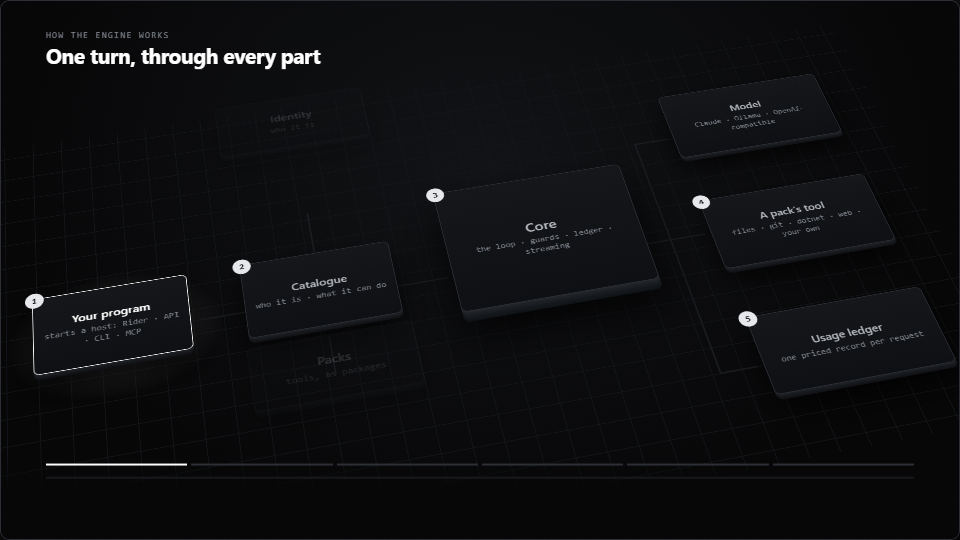
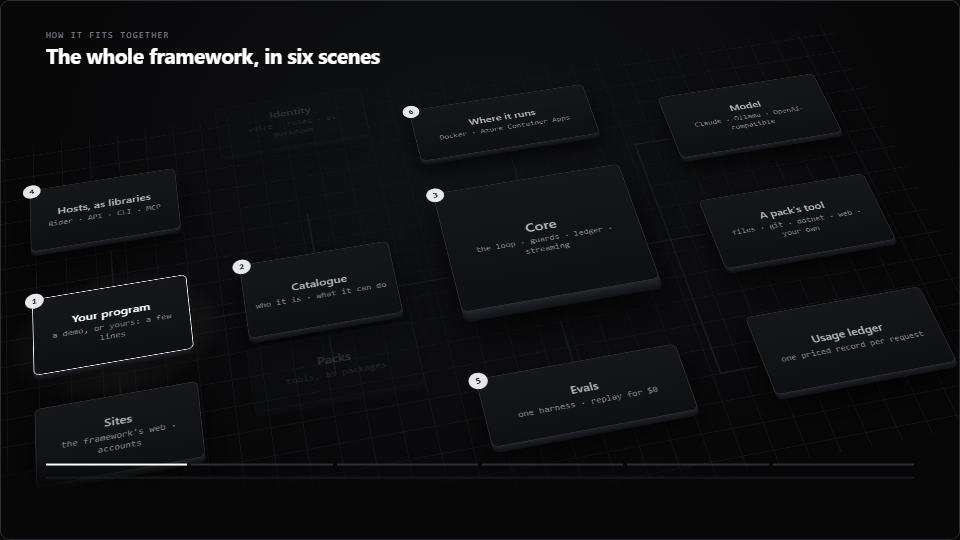
feat(f109.4): step 8 - the short film becomes the map
Six scenes over the whole framework on twelve parts: your program, the
catalogue with its identity and packs, core with the model and a pack's
tool behind a guard, the hosts as libraries beside the sites on the
framework's web, the evals and the ledger, and where it runs. The
detailed film keeps the turn. The light visits the parts in scene order,
the camera flies to each, the cards name real types (FilmNamesTests holds
them to the code), the golden follows, the film is re-exported and its
hash renewed, the landing's heading and the README's caption say what the
film now shows.

diff --git a/demos/louis-agent/web/louis-agent.code-review/Styles/site/movie/_short.scss b/demos/louis-agent/web/louis-agent.code-review/Styles/site/movie/_short.scss
@@ -1,19 +1,25 @@
-/* The short film (36 s, six scenes of 6 s): where each part stands, the camera's moves, when each part lights up, the
-   light's path, and when each card and caption shows. A scene's window is a share of the loop: 1 is 0–16%, 2 is
-   16–33%, 3 is 33–50%, 4 is 50–67%, 5 is 67–84%, 6 is 84–100%. The parts are numbered in the order the turn reaches
-   them. */
+/* The short film (36 s, six scenes of 6 s), the map of the whole framework (F109.4): where each part stands, the
+   camera's moves, when each part lights up, the light's path, and when each card and caption shows. A scene's window
+   is a share of the loop: 1 is 0–16%, 2 is 16–33%, 3 is 33–50%, 4 is 50–67%, 5 is 67–84%, 6 is 84–100%. The parts
+   are numbered in the order the film visits them. */
 
 .film-short { --loop: 36s; }
 .film-short .floor { animation-name: camera-s; }
 .film-short .dot, .film-short .shadow { animation-name: travel-s; }
 .film-short .steps i { width: calc((1160px - 30px) / 6); }
 
-/* Where the parts stand (the floor is 1280×720; its centre, 640×380, is what the camera turns around). */
+/* Where the parts stand (the floor is 1280×720; its centre, 640×380, is what the camera turns around): your program
+   in the left column between the hosts and the sites, the catalogue's column, core in the middle with where it runs
+   above and the evals below, the model, the tool and the ledger on the right. */
+.film-short .p-hosts { left: 60px; top: 110px; width: 200px; height: 110px; animation-name: lit-hosts-s; }
 .film-short .p-host { left: 60px; top: 300px; width: 200px; height: 120px; animation-name: lit-host-s; }
+.film-short .p-web { left: 60px; top: 470px; width: 200px; height: 110px; animation-name: lit-web-s; }
 .film-short .p-comp { left: 330px; top: 300px; width: 200px; height: 120px; animation-name: lit-comp-s; }
 .film-short .p-ident { left: 330px; top: 120px; width: 200px; height: 90px; animation-name: lit-ident-s; }
 .film-short .p-packs { left: 330px; top: 480px; width: 200px; height: 90px; animation-name: lit-packs-s; }
+.film-short .p-cloud { left: 600px; top: 70px; width: 260px; height: 100px; animation-name: lit-cloud-s; }
 .film-short .p-core { left: 600px; top: 260px; width: 260px; height: 200px; font-size: 20px; animation-name: lit-core-s; }
+.film-short .p-evals { left: 600px; top: 540px; width: 260px; height: 100px; animation-name: lit-evals-s; }
 .film-short .p-model { left: 960px; top: 120px; width: 240px; height: 120px; animation-name: lit-model-s; }
 .film-short .p-tools { left: 960px; top: 320px; width: 240px; height: 120px; animation-name: lit-tools-s; }
 .film-short .p-ledger { left: 960px; top: 520px; width: 240px; height: 120px; animation-name: lit-ledger-s; }
@@ -26,13 +32,19 @@
 .film-short .w6 { left: 910px; top: 180px; width: 2px; height: 400px; }
 .film-short .w7 { left: 910px; top: 180px; width: 50px; height: 2px; }
 .film-short .w8 { left: 910px; top: 580px; width: 50px; height: 2px; }
+.film-short .w9 { left: 160px; top: 220px; width: 2px; height: 80px; }
+.film-short .w10 { left: 160px; top: 420px; width: 2px; height: 50px; }
+.film-short .w11 { left: 730px; top: 170px; width: 2px; height: 90px; }
+.film-short .w12 { left: 730px; top: 460px; width: 2px; height: 80px; }
 
 .film-short .pool-host { left: 20px; top: 260px; width: 280px; height: 200px; animation-name: pool-host-s; }
 .film-short .pool-comp { left: 290px; top: 260px; width: 280px; height: 200px; animation-name: pool-comp-s; }
 .film-short .pool-core { left: 540px; top: 200px; width: 380px; height: 320px; animation-name: pool-core-s; }
-.film-short .pool-model { left: 920px; top: 80px; width: 320px; height: 200px; animation-name: pool-model-s; }
-.film-short .pool-tools { left: 920px; top: 280px; width: 320px; height: 200px; animation-name: pool-tools-s; }
-.film-short .pool-ledger { left: 920px; top: 480px; width: 320px; height: 200px; animation-name: pool-ledger-s; }
+.film-short .pool-hosts { left: 20px; top: 70px; width: 280px; height: 190px; animation-name: pool-hosts-s; }
+.film-short .pool-web { left: 20px; top: 430px; width: 280px; height: 190px; animation-name: pool-hosts-s; }
+.film-short .pool-evals { left: 540px; top: 500px; width: 380px; height: 180px; animation-name: pool-evals-s; }
+.film-short .pool-ledger { left: 920px; top: 480px; width: 320px; height: 200px; animation-name: pool-evals-s; }
+.film-short .pool-cloud { left: 540px; top: 30px; width: 380px; height: 180px; animation-name: pool-cloud-s; }
 
 .film-short .c1 { animation-name: show-s1; }
 .film-short .c2 { animation-name: show-s2; }
@@ -48,44 +60,50 @@
 .film-short .k6 { animation-name: step-s6; }
 
 /* The camera: wide at the start and the end, otherwise flown in on the part at work (translate centres it, scale is
-   the zoom) and panned from one to the next. */
+   the zoom) and panned from one to the next: the program, the catalogue, core with the model and the tool, the left
+   column of hosts and sites, the evals and the ledger at the bottom, where it runs at the top. */
 @keyframes camera-s {
     0% { transform: rotateX(38deg) rotateZ(-12deg) scale(1) translate(0, 0); }
     4%, 13% { transform: rotateX(22deg) rotateZ(-5deg) scale(1.7) translate(480px, 20px); }
     18%, 30% { transform: rotateX(22deg) rotateZ(-5deg) scale(1.3) translate(210px, 35px); }
     35%, 47% { transform: rotateX(22deg) rotateZ(-5deg) scale(0.92) translate(-200px, 185px); }
-    52%, 64% { transform: rotateX(22deg) rotateZ(-5deg) scale(1.3) translate(-265px, 10px); }
-    69%, 81% { transform: rotateX(22deg) rotateZ(-5deg) scale(1.3) translate(-265px, -90px); }
-    86%, 97% { transform: rotateX(22deg) rotateZ(-5deg) scale(1.7) translate(480px, 20px); }
+    52%, 64% { transform: rotateX(22deg) rotateZ(-5deg) scale(1.05) translate(430px, 20px); }
+    69%, 81% { transform: rotateX(22deg) rotateZ(-5deg) scale(1.05) translate(-140px, -90px); }
+    86%, 97% { transform: rotateX(22deg) rotateZ(-5deg) scale(1.3) translate(-10px, 140px); }
     100% { transform: rotateX(38deg) rotateZ(-12deg) scale(1) translate(0, 0); }
 }
 
-/* The light's path, part to part. */
+/* The light's path, part to part, in the order of the scenes. */
 @keyframes travel-s {
     0% { left: 250px; top: 352px; opacity: 0; } 2% { opacity: 1; } 12% { left: 330px; top: 352px; }
     14% { left: 330px; top: 352px; } 26% { left: 530px; top: 352px; } 28% { left: 600px; top: 352px; }
-    30% { left: 860px; top: 352px; } 34% { left: 960px; top: 180px; } 40% { left: 960px; top: 180px; } 44% { left: 860px; top: 352px; }
-    48% { left: 860px; top: 352px; } 52% { left: 960px; top: 380px; } 58% { left: 960px; top: 380px; } 62% { left: 860px; top: 352px; }
-    66% { left: 860px; top: 352px; } 70% { left: 960px; top: 580px; } 74% { left: 960px; top: 580px; } 78% { left: 860px; top: 352px; }
-    80% { left: 600px; top: 352px; } 90% { left: 250px; top: 352px; opacity: 1; } 92% { opacity: 0; } 100% { left: 250px; top: 352px; opacity: 0; }
+    33% { left: 860px; top: 352px; } 36% { left: 960px; top: 180px; } 40% { left: 960px; top: 180px; } 43% { left: 860px; top: 352px; }
+    46% { left: 960px; top: 380px; } 49% { left: 960px; top: 380px; } 51% { left: 600px; top: 352px; }
+    55% { left: 152px; top: 230px; } 58% { left: 152px; top: 230px; } 62% { left: 152px; top: 490px; } 65% { left: 152px; top: 490px; }
+    69% { left: 722px; top: 530px; } 73% { left: 722px; top: 530px; } 77% { left: 960px; top: 580px; } 81% { left: 960px; top: 580px; }
+    86% { left: 722px; top: 160px; } 92% { left: 722px; top: 160px; opacity: 1; } 94% { opacity: 0; } 100% { left: 250px; top: 352px; opacity: 0; }
 }
 
 /* When each part is lit (white edge and text), and the identity and packs dropping onto the floor in scene 2. */
-@keyframes lit-host-s { 0%, 12% { border-color: #fff; color: #fff; } 16%, 78% { border-color: #2c2f35; color: #b4b8be; } 84%, 100% { border-color: #fff; color: #fff; } }
+@keyframes lit-host-s { 0%, 12% { border-color: #fff; color: #fff; } 16%, 100% { border-color: #2c2f35; color: #b4b8be; } }
 @keyframes lit-comp-s { 0%, 12% { border-color: #2c2f35; color: #b4b8be; } 16%, 26% { border-color: #fff; color: #fff; } 30%, 100% { border-color: #2c2f35; color: #b4b8be; } }
 @keyframes lit-ident-s { 0%, 18% { opacity: .2; transform: translateZ(120px) translateY(-20px); } 22%, 100% { opacity: 1; transform: translateZ(26px); } }
 @keyframes lit-packs-s { 0%, 20% { opacity: .2; transform: translateZ(120px) translateY(20px); } 24%, 100% { opacity: 1; transform: translateZ(26px); } }
-@keyframes lit-core-s { 0%, 26% { border-color: #2c2f35; color: #b4b8be; } 30%, 80% { border-color: #fff; color: #fff; background: linear-gradient(180deg, #1f2226, #15171a); } 86%, 100% { border-color: #2c2f35; color: #b4b8be; } }
-@keyframes lit-model-s { 0%, 30% { border-color: #2c2f35; color: #b4b8be; } 34%, 42% { border-color: #fff; color: #fff; } 46%, 100% { border-color: #2c2f35; color: #b4b8be; } }
-@keyframes lit-tools-s { 0%, 48% { border-color: #2c2f35; color: #b4b8be; } 52%, 60% { border-color: #fff; color: #fff; } 64%, 100% { border-color: #2c2f35; color: #b4b8be; } }
-@keyframes lit-ledger-s { 0%, 66% { border-color: #2c2f35; color: #b4b8be; } 70%, 96% { border-color: #fff; color: #fff; } 100% { border-color: #2c2f35; color: #b4b8be; } }
+@keyframes lit-core-s { 0%, 26% { border-color: #2c2f35; color: #b4b8be; } 30%, 49% { border-color: #fff; color: #fff; background: linear-gradient(180deg, #1f2226, #15171a); } 53%, 100% { border-color: #2c2f35; color: #b4b8be; } }
+@keyframes lit-model-s { 0%, 32% { border-color: #2c2f35; color: #b4b8be; } 35%, 41% { border-color: #fff; color: #fff; } 44%, 100% { border-color: #2c2f35; color: #b4b8be; } }
+@keyframes lit-tools-s { 0%, 42% { border-color: #2c2f35; color: #b4b8be; } 45%, 49% { border-color: #fff; color: #fff; } 52%, 100% { border-color: #2c2f35; color: #b4b8be; } }
+@keyframes lit-hosts-s { 0%, 51% { border-color: #2c2f35; color: #b4b8be; } 54%, 64% { border-color: #fff; color: #fff; } 67%, 100% { border-color: #2c2f35; color: #b4b8be; } }
+@keyframes lit-web-s { 0%, 58% { border-color: #2c2f35; color: #b4b8be; } 61%, 64% { border-color: #fff; color: #fff; } 67%, 100% { border-color: #2c2f35; color: #b4b8be; } }
+@keyframes lit-evals-s { 0%, 67% { border-color: #2c2f35; color: #b4b8be; } 70%, 81% { border-color: #fff; color: #fff; } 84%, 100% { border-color: #2c2f35; color: #b4b8be; } }
+@keyframes lit-ledger-s { 0%, 75% { border-color: #2c2f35; color: #b4b8be; } 78%, 81% { border-color: #fff; color: #fff; } 84%, 100% { border-color: #2c2f35; color: #b4b8be; } }
+@keyframes lit-cloud-s { 0%, 84% { border-color: #2c2f35; color: #b4b8be; } 87%, 96% { border-color: #fff; color: #fff; } 100% { border-color: #2c2f35; color: #b4b8be; } }
 
-@keyframes pool-host-s { 0%, 12% { opacity: 1; } 16%, 78% { opacity: 0; } 84%, 100% { opacity: 1; } }
+@keyframes pool-host-s { 0%, 12% { opacity: 1; } 16%, 100% { opacity: 0; } }
 @keyframes pool-comp-s { 0%, 12% { opacity: 0; } 16%, 26% { opacity: 1; } 30%, 100% { opacity: 0; } }
-@keyframes pool-core-s { 0%, 26% { opacity: 0; } 30%, 80% { opacity: 1; } 86%, 100% { opacity: 0; } }
-@keyframes pool-model-s { 0%, 30% { opacity: 0; } 34%, 42% { opacity: 1; } 46%, 100% { opacity: 0; } }
-@keyframes pool-tools-s { 0%, 48% { opacity: 0; } 52%, 60% { opacity: 1; } 64%, 100% { opacity: 0; } }
-@keyframes pool-ledger-s { 0%, 66% { opacity: 0; } 70%, 96% { opacity: 1; } 100% { opacity: 0; } }
+@keyframes pool-core-s { 0%, 26% { opacity: 0; } 30%, 49% { opacity: 1; } 53%, 100% { opacity: 0; } }
+@keyframes pool-hosts-s { 0%, 51% { opacity: 0; } 54%, 64% { opacity: 1; } 67%, 100% { opacity: 0; } }
+@keyframes pool-evals-s { 0%, 67% { opacity: 0; } 70%, 81% { opacity: 1; } 84%, 100% { opacity: 0; } }
+@keyframes pool-cloud-s { 0%, 84% { opacity: 0; } 87%, 96% { opacity: 1; } 100% { opacity: 0; } }
 
 /* The card and the caption of each scene, and the step marks. */
 @keyframes show-s1 { 0% { opacity: 0; } 3%, 13% { opacity: 1; } 16%, 100% { opacity: 0; } }

diff --git a/demos/louis-agent/tests/louis-agent.code-review.tests/Movies/ShortMovie.html b/demos/louis-agent/tests/louis-agent.code-review.tests/Movies/ShortMovie.html
@@ -1,1 +1,1 @@
-<div class="movie" role="img" aria-label="A 36-second loop: your program starts a host and a prompt leaves it, the catalogue says which identity and packs it runs on, core asks the model, a pack's tool runs behind a guard, the ledger prices every request, and the answer returns with its bill; a detail card explains each scene"><div class="stage film-short"><div class="camera" aria-hidden="true"><div class="floor"><div class="wire w1"></div><div class="wire w2"></div><div class="wire w3"></div><div class="wire w4"></div><div class="wire w5"></div><div class="wire w6"></div><div class="wire w7"></div><div class="wire w8"></div><div class="pool pool-host"></div><div class="pool pool-comp"></div><div class="pool pool-core"></div><div class="pool pool-model"></div><div class="pool pool-tools"></div><div class="pool pool-ledger"></div><div class="part p-host"><i>1</i>Your program<small>starts a host: Rider · API · CLI · MCP</small></div><div class="part p-comp"><i>2</i>Catalogue<small>who it is · what it can do</small></div><div class="part p-ident">Identity<small>who it is</small></div><div class="part p-packs">Packs<small>tools, as packages</small></div><div class="part p-core core"><i>3</i>Core<small>the loop · guards · ledger · streaming</small></div><div class="part p-model">Model<small>Claude · Ollama · OpenAI-compatible</small></div><div class="part p-tools"><i>4</i>A pack's tool<small>files · git · dotnet · web · your own</small></div><div class="part p-ledger"><i>5</i>Usage ledger<small>one priced record per request</small></div><div class="shadow"></div><div class="dot"></div></div></div><div class="title"><span class="kicker">How the engine works</span><span class="title-text">One turn, through every part</span></div><div class="cards"><div class="card c1"><b>1 · Your program</b><code>CliHost.RunAsync(args, catalog)</code><ul><li>A few lines of your own start a host; every host speaks to the same engine</li><li>The prompt is appended to a history that only grows</li></ul><em>› fix the failing test</em></div><div class="card c2"><b>2 · The catalogue</b><code>new AgentCatalog(identities, packs)</code><ul><li>An identity is who the agent is: voice, modes, roles</li><li>A pack is what it can do, and ships as a package</li><li>The engine itself names no product</li></ul><em>identity: coding agent · packs: files, git, dotnet</em></div><div class="card c3"><b>3 · Core asks the model</b><code>Microsoft.Extensions.AI · IChatClient</code><ul><li>The history and the session's tools go to the model</li><li>The provider is configuration: Claude, Ollama or OpenAI-compatible</li><li>The prompt prefix stays the same bytes, so it caches</li></ul><em>thinking · reads the test first… → ReadWorkspaceFile</em></div><div class="card c4"><b>4 · A pack's tool, behind a guard</b><code>the tool loop · ToolCallGuards</code><ul><li>The pack holds the tool; the engine holds the guards</li><li>Arguments are data, never a shell command</li><li>A result over 50,000 characters is summarised first</li></ul><em>DotNetTest → 61,340 chars → 1,100</em></div><div class="card c5"><b>5 · The ledger</b><code>one record per request · a dated price table</code><ul><li>Every model request is recorded with its tokens and cost</li><li>An unknown price stays unknown, never 0</li></ul><em>request 3 · 9.4k tokens · $0.002</em></div><div class="card c6"><b>6 · Back to the host, with the bill</b><code>every host shows the same totals</code><ul><li>Thinking, text and every tool call streamed as they happened</li><li>The turn ends with what it cost</li></ul><em>turn: 4 requests · 31k tokens (27k cached) · $0.008</em></div></div><div class="strip" aria-hidden="true"></div><div class="steps" aria-hidden="true"><i class="k1"></i><i class="k2"></i><i class="k3"></i><i class="k4"></i><i class="k5"></i><i class="k6"></i></div><div class="bar" aria-hidden="true"><i></i></div><div class="cap c1"><b>1 / 6</b><span>Your program starts a host, and a prompt comes in.</span></div><div class="cap c2"><b>2 / 6</b><span>Its catalogue says who the agent is and what it can do.</span></div><div class="cap c3"><b>3 / 6</b><span>Core sends the history and the tools to the model. The provider is configuration.</span></div><div class="cap c4"><b>4 / 6</b><span>The model calls a pack's tool. A guard keeps the result in bounds.</span></div><div class="cap c5"><b>5 / 6</b><span>Every request lands in the ledger, priced.</span></div><div class="cap c6"><b>6 / 6</b><span>The answer streams back with its bill. Then the next turn.</span></div></div></div>
+<div class="movie" role="img" aria-label="A 36-second loop over the whole framework: your program starts a host, the catalogue says which identity and packs it runs on, core asks the model and a pack's tool runs behind a guard, the hosts are libraries and a site is an app on the framework's web, every check is an eval and every request lands in the ledger priced, and it runs in Docker on a PC and in Container Apps in Azure; a detail card explains each scene"><div class="stage film-short"><div class="camera" aria-hidden="true"><div class="floor"><div class="wire w1"></div><div class="wire w2"></div><div class="wire w3"></div><div class="wire w4"></div><div class="wire w5"></div><div class="wire w6"></div><div class="wire w7"></div><div class="wire w8"></div><div class="wire w9"></div><div class="wire w10"></div><div class="wire w11"></div><div class="wire w12"></div><div class="pool pool-host"></div><div class="pool pool-comp"></div><div class="pool pool-core"></div><div class="pool pool-hosts"></div><div class="pool pool-web"></div><div class="pool pool-evals"></div><div class="pool pool-ledger"></div><div class="pool pool-cloud"></div><div class="part p-hosts"><i>4</i>Hosts, as libraries<small>Rider · API · CLI · MCP</small></div><div class="part p-host"><i>1</i>Your program<small>a demo, or yours: a few lines</small></div><div class="part p-web">Sites<small>the framework's web · accounts</small></div><div class="part p-comp"><i>2</i>Catalogue<small>who it is · what it can do</small></div><div class="part p-ident">Identity<small>voice · roles · as markdown</small></div><div class="part p-packs">Packs<small>tools, as packages</small></div><div class="part p-cloud"><i>6</i>Where it runs<small>Docker · Azure Container Apps</small></div><div class="part p-core core"><i>3</i>Core<small>the loop · guards · ledger · streaming</small></div><div class="part p-evals"><i>5</i>Evals<small>one harness · replay for $0</small></div><div class="part p-model">Model<small>Claude · Ollama · OpenAI-compatible</small></div><div class="part p-tools">A pack's tool<small>files · git · dotnet · web · your own</small></div><div class="part p-ledger">Usage ledger<small>one priced record per request</small></div><div class="shadow"></div><div class="dot"></div></div></div><div class="title"><span class="kicker">How it fits together</span><span class="title-text">The whole framework, in six scenes</span></div><div class="cards"><div class="card c1"><b>1 · Your program</b><code>CliHost.RunAsync(args, CodingCatalog.Create(), services)</code><ul><li>A few lines in a project of your own: a demo is one, a customer's is one</li><li>They name the catalogue and start a host; nothing in the framework knows your project exists</li></ul><em>demos/louis-agent · identity · hosts · web · evals · deploy</em></div><div class="card c2"><b>2 · The catalogue</b><code>new AgentCatalog(identities, packs)</code><ul><li>An identity is who the agent is: voice, modes, roles, as markdown</li><li>A pack is what it can do, and ships as a package that needs only the contracts</li><li>The engine itself names no product</li></ul><em>identity: coding agent · packs: files, git, dotnet</em></div><div class="card c3"><b>3 · Core, the model, a tool</b><code>IChatClient · ToolCallGuards</code><ul><li>One chat client across providers; the provider is configuration</li><li>The pack holds the tool; the engine holds the guards: arguments are data, a result over 50,000 characters is summarised first</li></ul><em>thinking → ReadWorkspaceFile → DotNetTest → 61,340 chars → 1,100</em></div><div class="card c4"><b>4 · The hosts, and the web</b><code>AgentHost.Build() · AgentKeyGate</code><ul><li>Every host is a library: a terminal, Rider's chat, the HTTP API, an MCP server</li><li>A site is a small app on the framework's web, served by the API from the same origin</li><li>A sign-in or a key before any session opens</li></ul><em>Rider · API + web · CLI · MCP</em></div><div class="card c5"><b>5 · The evals, and the ledger</b><code>UsageLedger · PriceTable</code><ul><li>Every check is a C# eval on one harness, beside what it proves; a stored run re-scores for nothing</li><li>Every model request is one record with its tokens and cost, from a dated price table; unknown stays unknown</li></ul><em>72 / 72 · $0.37 live · $0 to replay</em></div><div class="card c6"><b>6 · Where it runs</b><code>docker compose up · deploy.ps1 release</code><ul><li>Docker on a developer's machine, the repository mounted as the workspace</li><li>Two Container Apps in Azure on one private network, Mongo and the browser on a small VM</li><li>A merge to main releases both after green CI</li></ul><em>louis-agent.dev · mypuls.co.za</em></div></div><div class="strip" aria-hidden="true"></div><div class="steps" aria-hidden="true"><i class="k1"></i><i class="k2"></i><i class="k3"></i><i class="k4"></i><i class="k5"></i><i class="k6"></i></div><div class="bar" aria-hidden="true"><i></i></div><div class="cap c1"><b>1 / 6</b><span>Your program names the catalogue and starts a host.</span></div><div class="cap c2"><b>2 / 6</b><span>The catalogue says who the agent is and what it can do.</span></div><div class="cap c3"><b>3 / 6</b><span>Core asks the model; a pack's tool runs behind a guard.</span></div><div class="cap c4"><b>4 / 6</b><span>The hosts are libraries; a site is an app on the framework's web.</span></div><div class="cap c5"><b>5 / 6</b><span>Every check is an eval; every request lands in the ledger, priced.</span></div><div class="cap c6"><b>6 / 6</b><span>Docker on a PC, Container Apps in Azure, released from GitHub.</span></div></div></div>

diff --git a/demos/louis-agent/tests/louis-agent.code-review.tests/Movies/ShortMovieTests.cs b/demos/louis-agent/tests/louis-agent.code-review.tests/Movies/ShortMovieTests.cs
@@ -22,17 +22,22 @@ public class ShortMovieTests
             Is.EqualTo(Enumerable.Range(1, 6).Select(n => $"{n}")));
     }
 
-    /// <summary>The parts the turn reaches are numbered in that order: your program, the catalogue, core, a tool, the ledger.</summary>
+    /// <summary>
+    /// The parts the film visits are numbered in that order (F109.4, the map): your program, the catalogue, core,
+    /// the hosts, the evals, where it runs.
+    /// </summary>
     [Test]
-    public void TheParts_AreNumbered_InTheOrderTheTurnReachesThem()
+    public void TheParts_AreNumbered_InTheOrderTheFilmVisitsThem()
     {
         using var ctx = new BunitContext();
 
         var cut = ctx.Render<ShortMovie>();
 
-        Assert.That(cut.FindAll(".part i").Select(i => i.TextContent), Is.EqualTo(["1", "2", "3", "4", "5"]));
+        Assert.That(cut.FindAll(".part i").Select(i => i.TextContent), Is.EqualTo(["4", "1", "2", "6", "3", "5"]));
         Assert.That(cut.FindAll(".part").Where(p => p.QuerySelector("i") is not null).Select(p => p.ClassName),
-            Is.EqualTo(["part p-host", "part p-comp", "part p-core core", "part p-tools", "part p-ledger"]));
+            Is.EqualTo([
+                "part p-hosts", "part p-host", "part p-comp", "part p-cloud", "part p-core core", "part p-evals"
+            ]));
     }
 
     /// <summary>The film is one picture to a screen reader, with what happens in it said once.</summary>

diff --git a/demos/louis-agent/tests/louis-agent.code-review.tests/Pages/Site/SitePagesTests.cs b/demos/louis-agent/tests/louis-agent.code-review.tests/Pages/Site/SitePagesTests.cs
@@ -11,7 +11,7 @@ namespace LouisAgent.CodeReview.Tests.Pages.Site;
 public class SitePagesTests
 {
     /// <summary>Each page of the menu is at its address and opens with its heading.</summary>
-    [TestCase(typeof(HomePage), "/", "A turn goes down the stack and comes back priced.")]
+    [TestCase(typeof(HomePage), "/", "The whole framework, in six scenes.")]
     [TestCase(typeof(HowItWorksPage), "/how-it-works", "One turn, through every layer.")]
     [TestCase(typeof(ArchitecturePage), "/architecture", "The whole framework, as the repository is laid out.")]
     [TestCase(typeof(IdentitiesPage), "/identities", "Who an agent is, as files.")]

diff --git a/README.md b/README.md
@@ -4,7 +4,7 @@
 
 <picture>
   <source media="(prefers-reduced-motion: reduce)" srcset="demos/louis-agent/docs/films/short.png">
-  <img alt="A 36-second film of one turn: your program starts a host and a prompt comes in, the catalogue says who the agent is and what it can do, core asks the model, a pack's tool runs behind a guard, the ledger prices every request, and the answer streams back with its bill." src="demos/louis-agent/docs/films/short.webp" width="960">
+  <img alt="A 36-second film of the whole framework in six scenes: your program starts a host, the catalogue says who the agent is and what it can do, core asks the model and a pack's tool runs behind a guard, the hosts are libraries and a site is an app on the framework's web, every check is an eval and every request lands in the ledger priced, and it runs in Docker on a PC and in Container Apps in Azure." src="demos/louis-agent/docs/films/short.webp" width="960">
 </picture>
 
 louis-agent is a framework: the engine (the tool loop, streaming, providers, cost tracking and safety guards, built on
